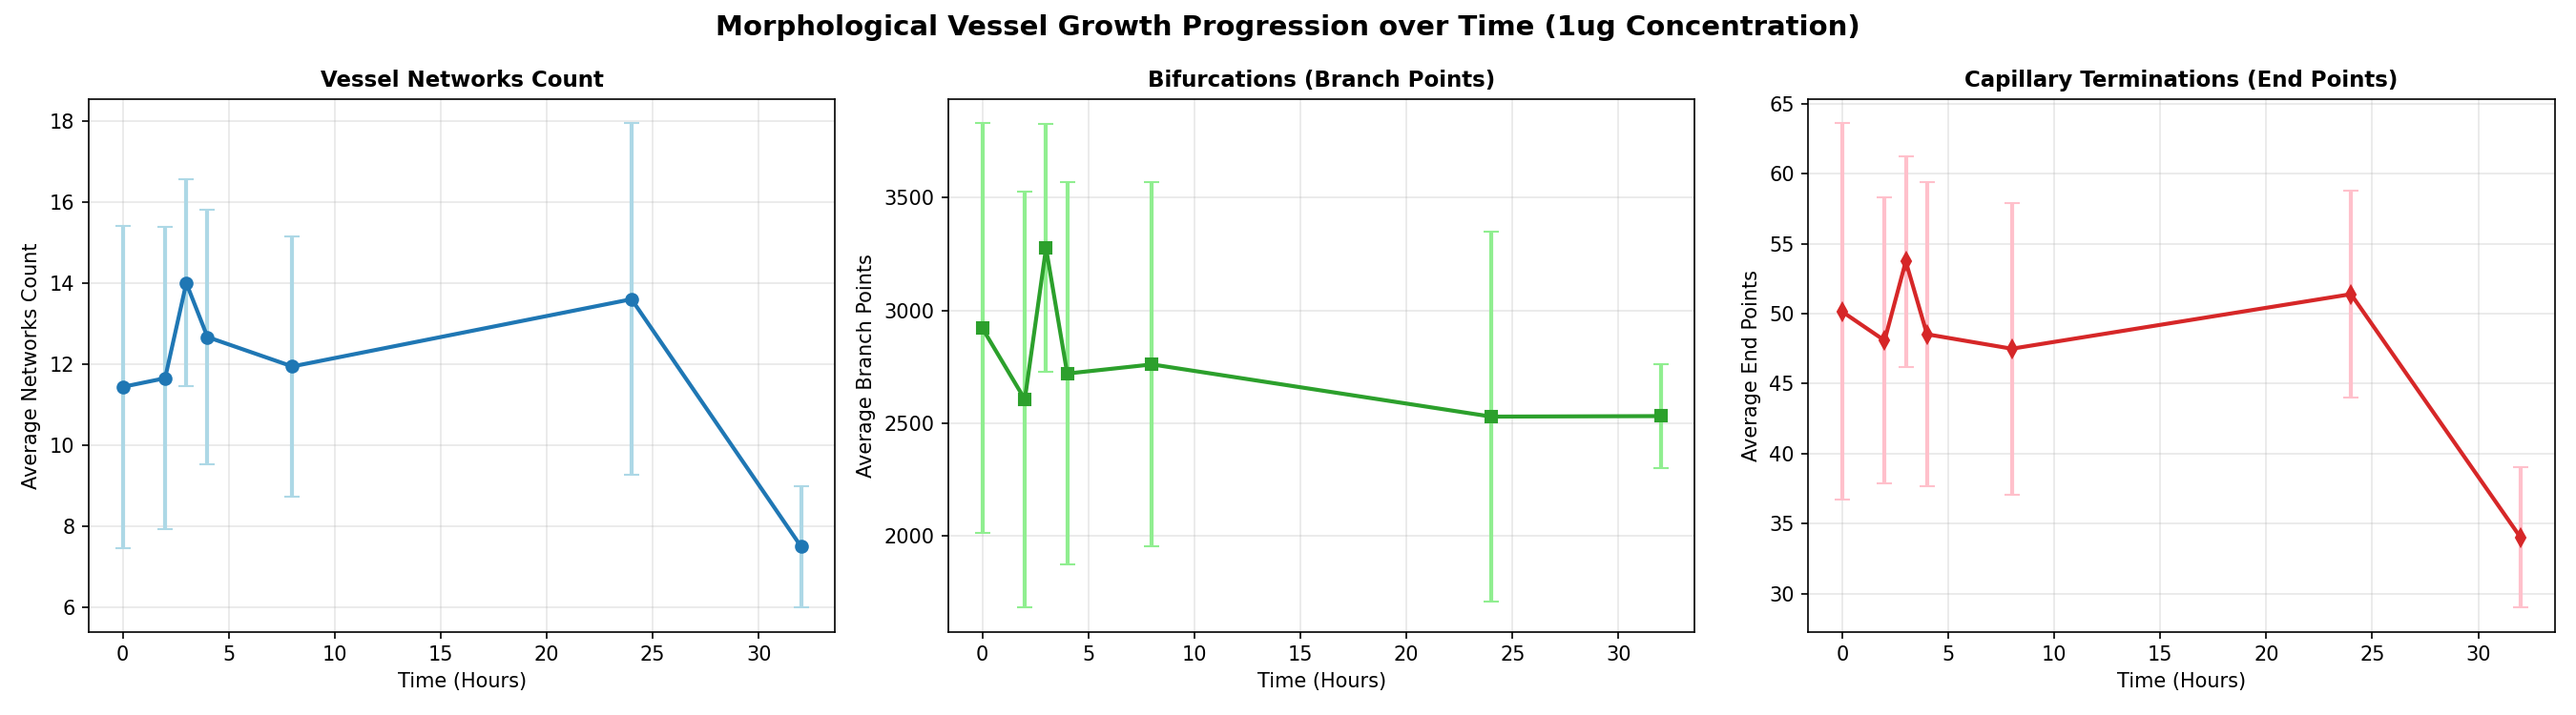
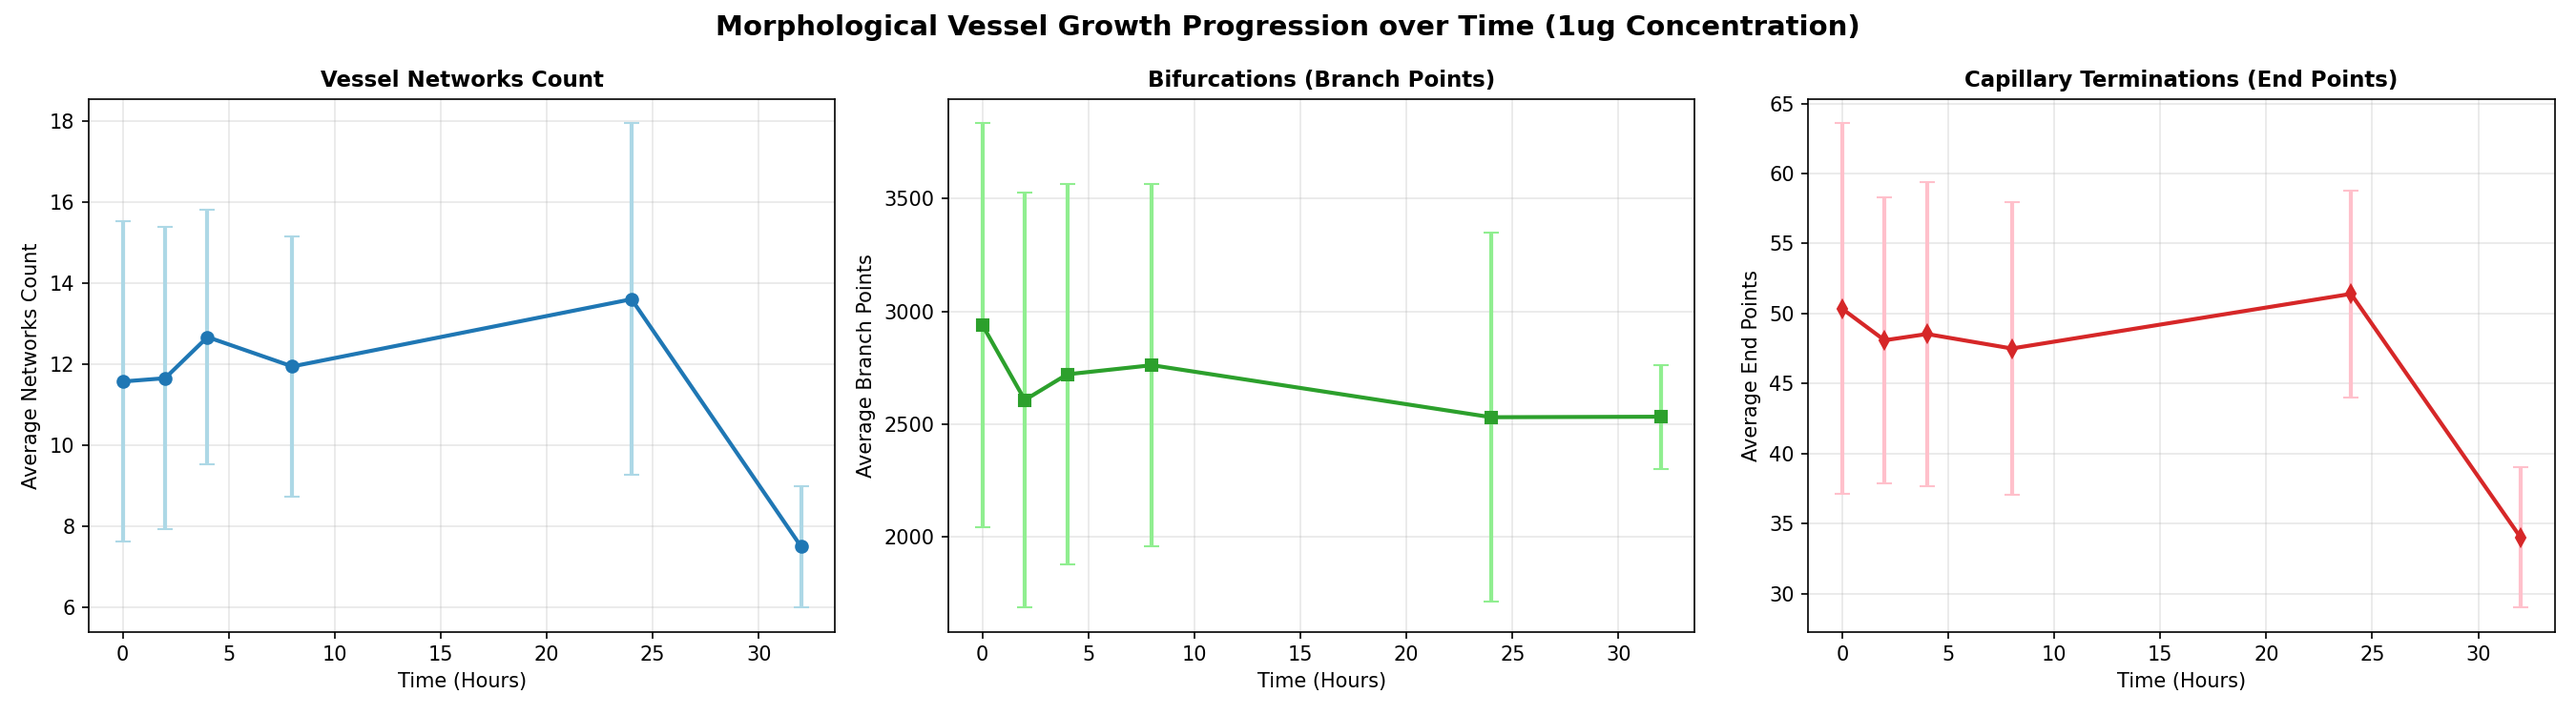
fix: Correct time point parsing logic, merge 3h back into 0h

diff --git a/vessel_growth_analysis.py b/vessel_growth_analysis.py
@@ -140,7 +140,7 @@ def run_analysis():
                     
                 # Decode time point from filename
                 r_filename = os.path.basename(best_path).lower()
-                hr_match = re.search(r'(\d+)hr', r_filename)
+                hr_match = re.search(r'(\d+)\s*h', r_filename)
                 if hr_match:
                     hour = int(hr_match.group(1))
                 else:

diff --git a/README.md b/README.md
@@ -152,9 +152,8 @@ To analyze how retinal/angiogenesis blood vessels grow and branch over time, we 
 
 | Time Point | Sample Size (n) | Vessel Networks (Mean ± SD) | Branch Points (Mean ± SD) | End Points (Mean ± SD) |
 | :---: | :---: | :---: | :---: | :---: |
-| **0 hours** | 73 | 11.44 ± 3.98 | 2920.16 ± 908.08 | 50.15 ± 13.46 |
+| **0 hours** | 77 | 11.57 ± 3.96 | 2938.65 ± 896.46 | 50.34 ± 13.24 |
 | **2 hours** | 46 | 11.65 ± 3.73 | 2605.83 ± 921.93 | 48.09 ± 10.21 |
-| **3 hours** | 4 | 14.00 ± 2.55 | 3276.00 ± 548.58 | 53.75 ± 7.53 |
 | **4 hours** | 45 | 12.67 ± 3.13 | 2719.98 ± 846.45 | 48.53 ± 10.88 |
 | **8 hours** | 52 | 11.94 ± 3.21 | 2760.40 ± 806.49 | 47.50 ± 10.43 |
 | **24 hours** | 25 | 13.60 ± 4.34 | 2529.24 ± 820.60 | 51.40 ± 7.38 |
